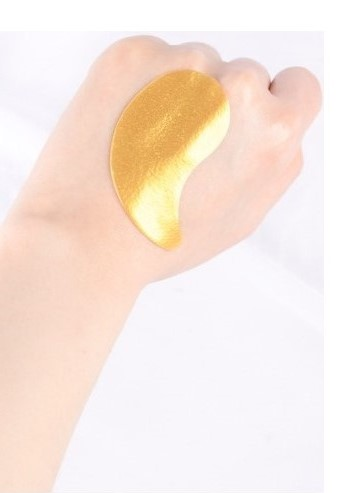
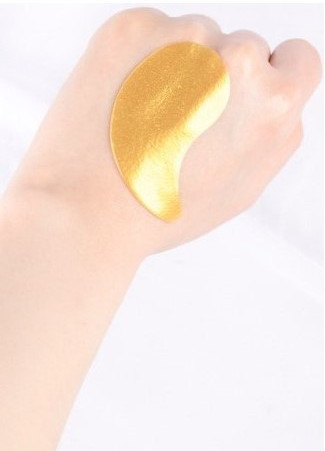
fix(beauty): crop picture and upper first letter email

diff --git a/beauty.html b/beauty.html
@@ -59,14 +59,14 @@
       </div>
 
       <div class="row">
-        <div class="col s12 l3">
+        <div class="col s12 l4">
           <div class="card">
             <div class="card-image">
               <img src="img/beauty/11.jpeg">
             </div>
           </div>
         </div>
-        <div class="col s12 l3">
+        <div class="col s12 l4">
           <div class="card">
             <div class="card-image">
                <img src="img/beauty/21.jpeg">

diff --git a/contacts.html b/contacts.html
@@ -54,7 +54,7 @@
           <p class="light">
             <a href="mailto: lim@gbcmos.com">Lim@gbcmos.com</a><br/>
             <a href="mailto: natalia@gbcmos.com">Natalia@gbcmos.com</a><br/>
-            <a href="mailto: galina@gbcmos.com">galina@gbcmos.com</a></p>
+            <a href="mailto: galina@gbcmos.com">Galina@gbcmos.com</a></p>
         </div>
         <div class="col l6 center my-lotte-1">
           <img src="img/lotte2.jpg" class="responsive-img" />
